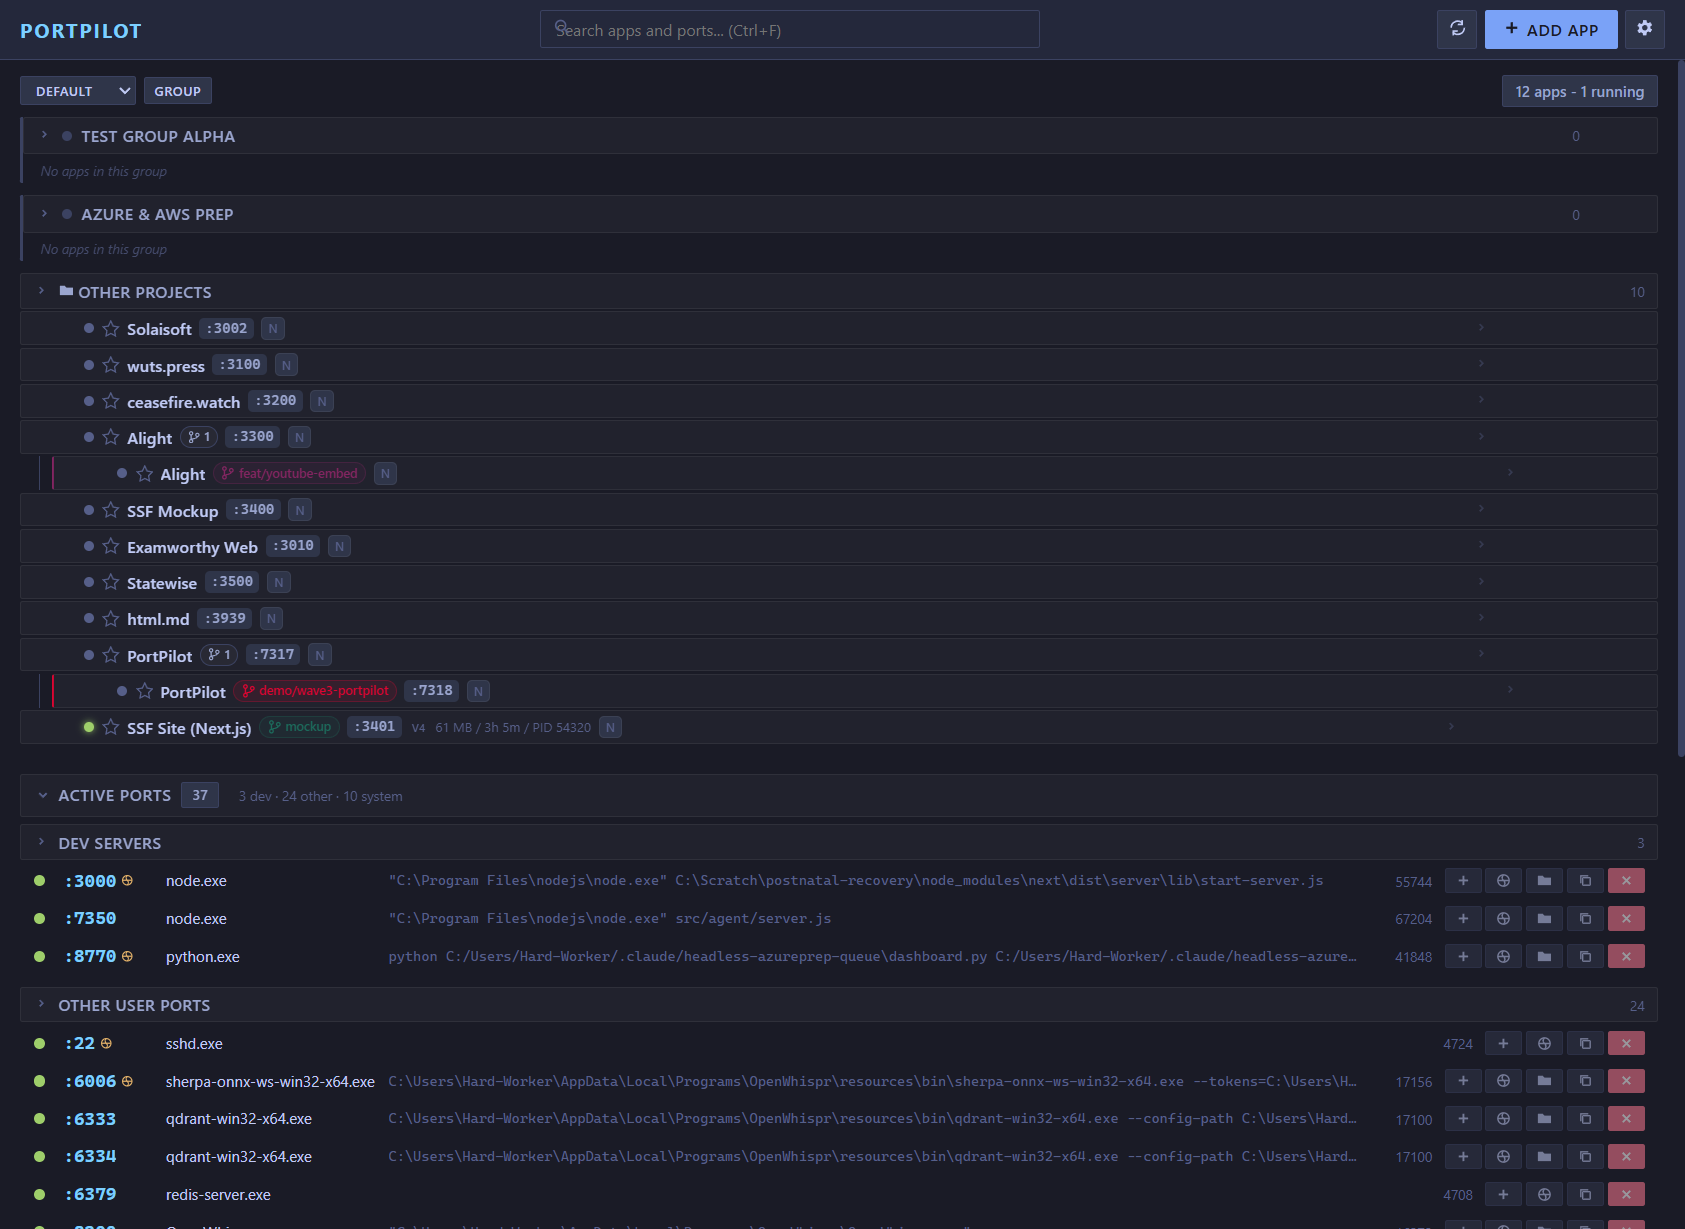
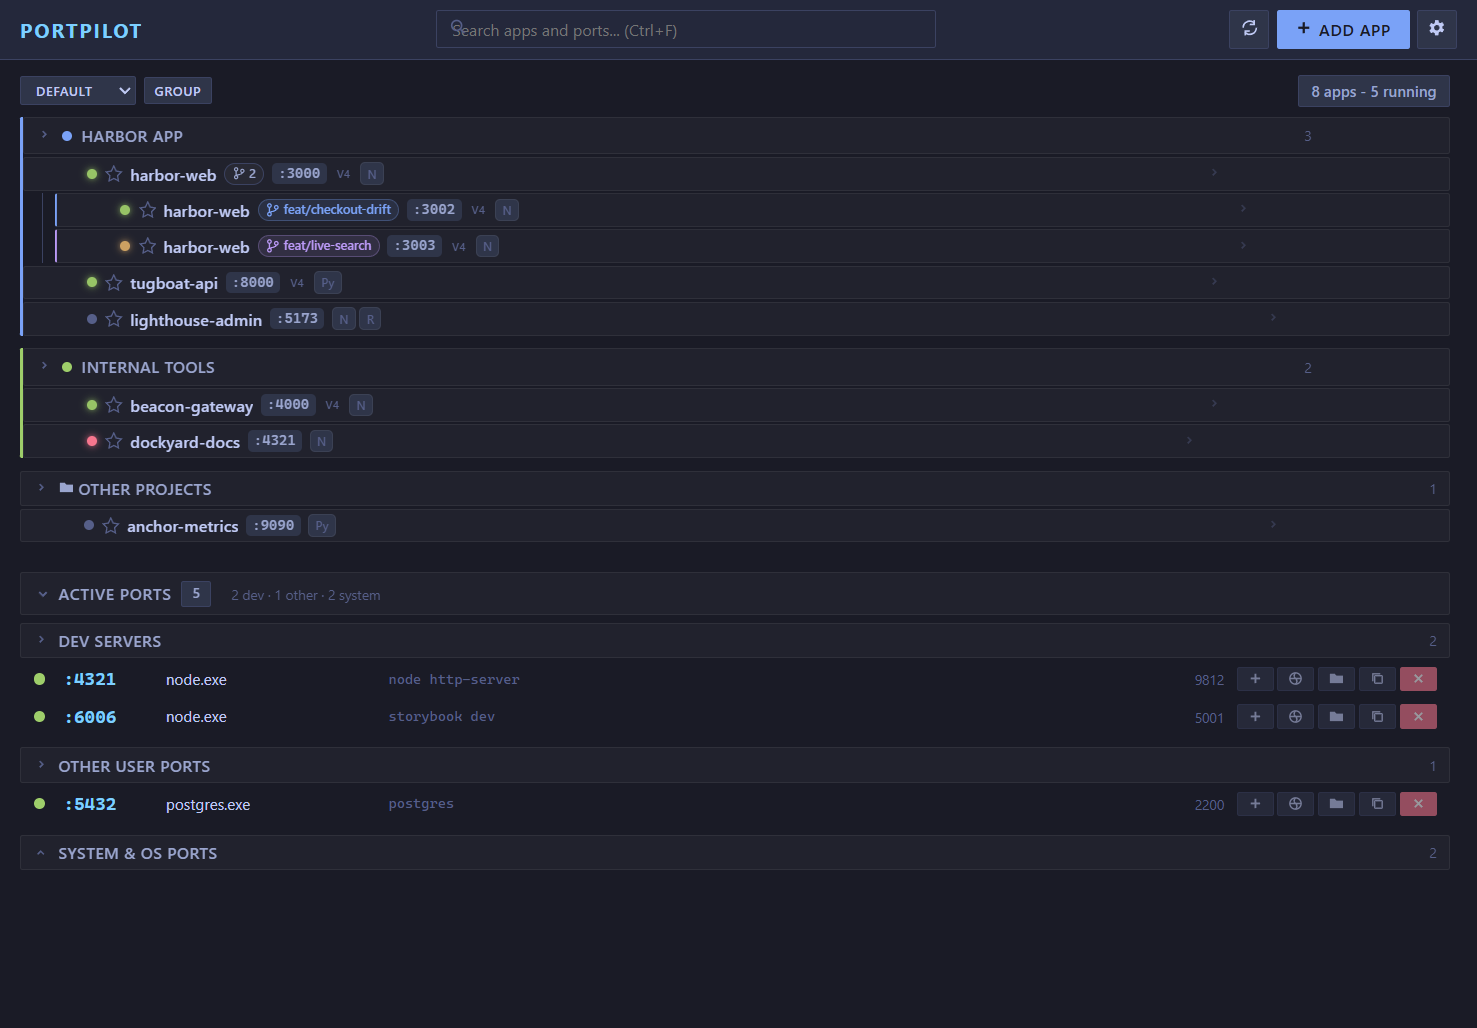
docs: replace marketing screenshots with a fake-seeded demo
The public screenshots showed real client/project names (Station Street
Fitness, Solaisoft, etc.) and real filesystem paths. Replace them with a
curated, nautical-themed demo that leaks nothing and showcases every
v3.3.0 feature at once.

- docs/demo/demo-seed.js: committed fictional dataset + a mock
  window.portpilot, so the real renderer produces reproducible showcase
  screenshots with no backend
- regenerated slot1 (nested colour-coded branches, a healthy/unhealthy/
  conflict/stopped mix, a reserved-port R badge, groups, grouped ports),
  slot2 (detail drawer with the new Health field + Share/Reserve actions),
  slice3b-drawer and slice9-detect-modal - all with harbor/tugboat/
  lighthouse-style fake names and C:/dev paths

diff --git a/docs/demo/demo-seed.js b/docs/demo/demo-seed.js
@@ -1,0 +1,115 @@
+/**
+ * PortPilot demo seed - fictional, nautical-themed data for marketing
+ * screenshots. Contains NO real project or client names, and no real
+ * filesystem paths. Loading this before renderer.js installs a mock
+ * window.portpilot backed by this data, so the real renderer renders a
+ * curated showcase (nested worktrees, health states, a reserved port, a
+ * live port conflict, groups) without a backend.
+ *
+ * Reproduce a screenshot:
+ *   serve src/renderer/index.html with this file executed first
+ *   (e.g. via the chrome-devtools navigate initScript).
+ */
+(function () {
+  const now = new Date('2026-07-01T06:00:00Z').toISOString();
+
+  const groups = [
+    { id: 'g_harbor', name: 'Harbor App', color: '#7aa2f7', expanded: true },
+    { id: 'g_tools', name: 'Internal Tools', color: '#9ece6a', expanded: true },
+  ];
+
+  // name, command, cwd, port, group, parentId, branch, colour, flags
+  const apps = [
+    { id: 'a_web', name: 'harbor-web', command: 'npm run dev', cwd: 'C:/dev/harbor/web', preferredPort: 3000, group: 'g_harbor' },
+    { id: 'a_web_checkout', name: 'harbor-web', command: 'npm run dev', cwd: 'C:/dev/harbor/web-checkout', preferredPort: 3002, group: 'g_harbor', parentId: 'a_web', branch: 'feat/checkout-drift', color: '#7aa2f7', colorSource: 'peacock' },
+    { id: 'a_web_search', name: 'harbor-web', command: 'npm run dev', cwd: 'C:/dev/harbor/web-search', preferredPort: 3003, group: 'g_harbor', parentId: 'a_web', branch: 'feat/live-search', color: '#bb9af7', colorSource: 'peacock' },
+    { id: 'a_api', name: 'tugboat-api', command: 'uvicorn main:app --reload', cwd: 'C:/dev/harbor/api', preferredPort: 8000, group: 'g_harbor' },
+    { id: 'a_admin', name: 'lighthouse-admin', command: 'npm run dev', cwd: 'C:/dev/harbor/admin', preferredPort: 5173, group: 'g_harbor', reservePort: true },
+    { id: 'a_gw', name: 'beacon-gateway', command: 'node server.js', cwd: 'C:/dev/tools/gateway', preferredPort: 4000, group: 'g_tools' },
+    { id: 'a_docs', name: 'dockyard-docs', command: 'npm run dev', cwd: 'C:/dev/tools/docs', preferredPort: 4321, group: 'g_tools' },
+    { id: 'a_metrics', name: 'anchor-metrics', command: 'python main.py', cwd: 'C:/dev/tools/metrics', preferredPort: 9090 },
+  ].map((a) => ({
+    fallbackRange: null, env: {}, autoStart: false, isFavorite: false,
+    description: null, startupDelay: null, parentId: null, branch: null,
+    worktreePath: null, colorSource: null, color: '#7dcfff', healthPath: null,
+    reservePort: false, createdAt: now, updatedAt: now, ...a,
+  }));
+
+  // Which apps are running (managed), and the detected port for each.
+  const running = {
+    a_web: { port: 3000, pid: 4101, processName: 'node.exe', commandLine: 'node next dev' },
+    a_web_checkout: { port: 3002, pid: 4132, processName: 'node.exe', commandLine: 'node next dev' },
+    a_web_search: { port: 3003, pid: 4140, processName: 'node.exe', commandLine: 'node next dev' },
+    a_api: { port: 8000, pid: 4200, processName: 'python.exe', commandLine: 'uvicorn main:app' },
+    a_gw: { port: 4000, pid: 4310, processName: 'node.exe', commandLine: 'node server.js' },
+  };
+
+  const health = { a_web: 'healthy', a_web_checkout: 'healthy', a_web_search: 'unhealthy', a_api: 'healthy', a_gw: 'healthy' };
+
+  const runningApps = Object.keys(running).map((id) => {
+    const app = apps.find((a) => a.id === id);
+    return { id, pid: running[id].pid, name: app.name, command: app.command, cwd: app.cwd, running: true, startTime: now, exitCode: null };
+  });
+
+  const matches = {};
+  for (const id of Object.keys(running)) {
+    matches[id] = { port: running[id].port, pid: running[id].pid, address: '127.0.0.1', processName: running[id].processName, commandLine: running[id].commandLine, conflict: false, matchType: 'preferredPort-cwd', confidence: 'high' };
+  }
+
+  // dockyard-docs (4321) is squatted by a foreign process -> conflict.
+  const unknownConflicts = [
+    { appId: 'a_docs', appName: 'dockyard-docs', port: 4321, occupiedBy: { processName: 'node.exe', pid: 9812 } },
+  ];
+
+  const ports = [
+    { port: 3000, pid: 4101, processName: 'node.exe', commandLine: 'node next dev', address: '127.0.0.1', appId: 'a_web' },
+    { port: 3002, pid: 4132, processName: 'node.exe', commandLine: 'node next dev', address: '127.0.0.1', appId: 'a_web_checkout' },
+    { port: 3003, pid: 4140, processName: 'node.exe', commandLine: 'node next dev', address: '127.0.0.1', appId: 'a_web_search' },
+    { port: 8000, pid: 4200, processName: 'python.exe', commandLine: 'uvicorn main:app', address: '127.0.0.1', appId: 'a_api' },
+    { port: 4000, pid: 4310, processName: 'node.exe', commandLine: 'node server.js', address: '127.0.0.1', appId: 'a_gw' },
+    { port: 4321, pid: 9812, processName: 'node.exe', commandLine: 'node http-server', address: '127.0.0.1' },
+    { port: 6006, pid: 5001, processName: 'node.exe', commandLine: 'storybook dev', address: '127.0.0.1' },
+    { port: 5432, pid: 2200, processName: 'postgres.exe', commandLine: 'postgres', address: '127.0.0.1' },
+    { port: 135, pid: 4, processName: 'System', commandLine: '', address: '0.0.0.0' },
+    { port: 445, pid: 4, processName: 'System', commandLine: '', address: '0.0.0.0' },
+  ];
+
+  const settings = { autoScan: false, scanInterval: 5000, theme: 'tokyonight', closeToTray: true, stopAppsOnQuit: true, openAtLogin: true, autoResizeWindow: false, notifyOnCrash: true, favoritesExpanded: true, otherProjectsExpanded: true, discovery: {} };
+
+  const ok = (extra) => Promise.resolve(Object.assign({ success: true }, extra));
+  const noop = () => ok();
+
+  window.portpilot = {
+    ports: {
+      scan: () => ok({ ports }),
+      scanWithApps: () => ok({ ports, matches, unknownConflicts }),
+      check: () => ok({ inUse: false }),
+      findAvailable: () => ok({ port: 3004 }),
+      kill: noop, getDetails: () => ok({ details: {} }),
+    },
+    process: {
+      list: () => ok({ apps: runningApps }),
+      start: noop, stop: noop, kill: noop, logs: () => ok({ stdout: '', stderr: '' }),
+    },
+    config: {
+      getApps: () => ok({ apps }),
+      getGroups: () => ok({ groups }),
+      getSettings: () => ok({ settings }),
+      updateSettings: () => ok({ settings }),
+      saveApp: noop, deleteApp: noop, toggleFavorite: noop, deleteAllApps: noop,
+      updateAppsOrder: noop, export: () => ok({ data: '{}' }), import: noop,
+      saveGroup: noop, deleteGroup: noop,
+    },
+    worktrees: { detect: () => ok({ candidates: [] }), stale: () => ok({ ids: [] }) },
+    health: { check: (appId) => ok({ appId, state: health[appId] || 'down' }) },
+    net: { shareInfo: () => ok({ localUrl: 'http://localhost:3000', lanUrl: 'http://192.168.1.24:3000', qrDataUrl: '' }) },
+    reserve: { enable: noop, disable: noop },
+    discovery: { scan: () => ok({ projects: [] }), detectProject: () => ok({ project: null }), getSettings: () => ok({ settings: {} }), addScanPath: noop, removeScanPath: noop, updateSettings: noop },
+    docker: { status: () => Promise.resolve({ running: false }), start: noop },
+    window: { autoResize: noop },
+    tray: { update: noop },
+    on: () => {},
+    openExternal: noop,
+    browseDirectory: () => ok({ canceled: true }),
+  };
+})();
